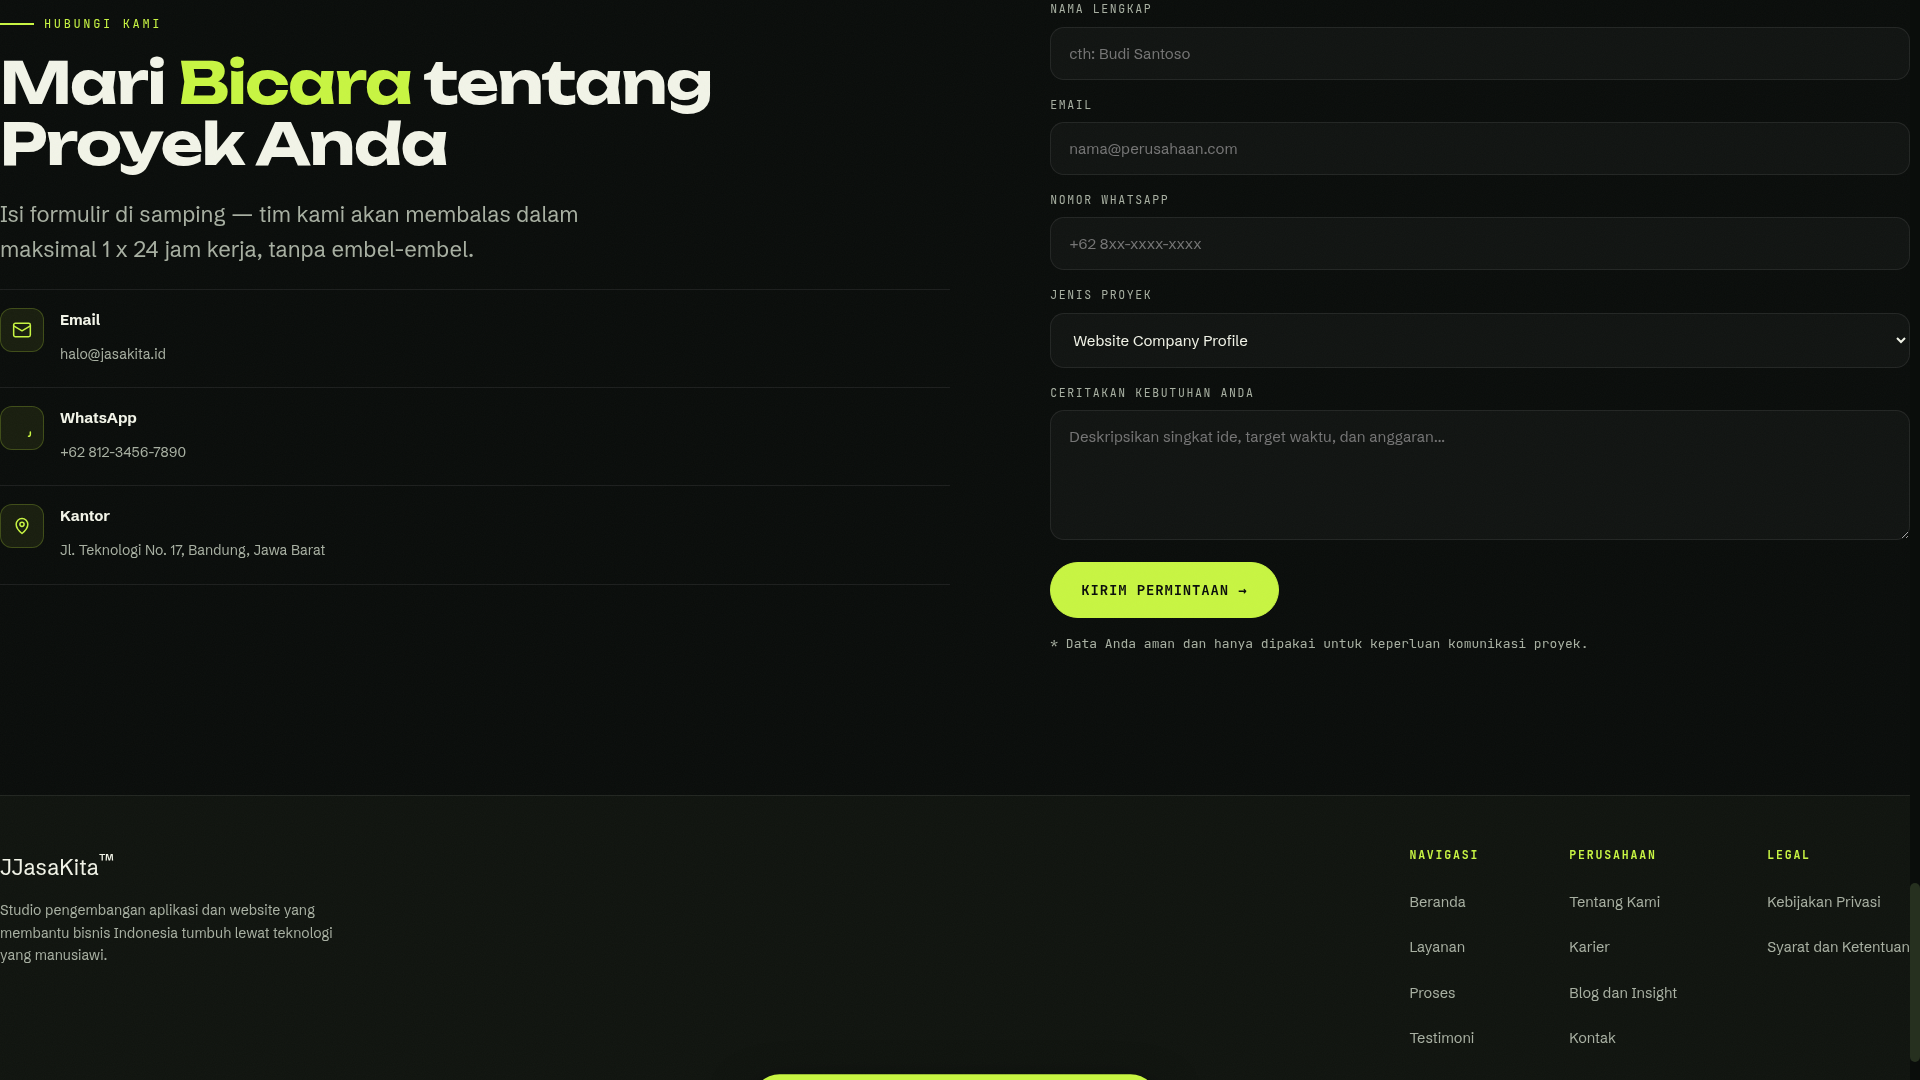
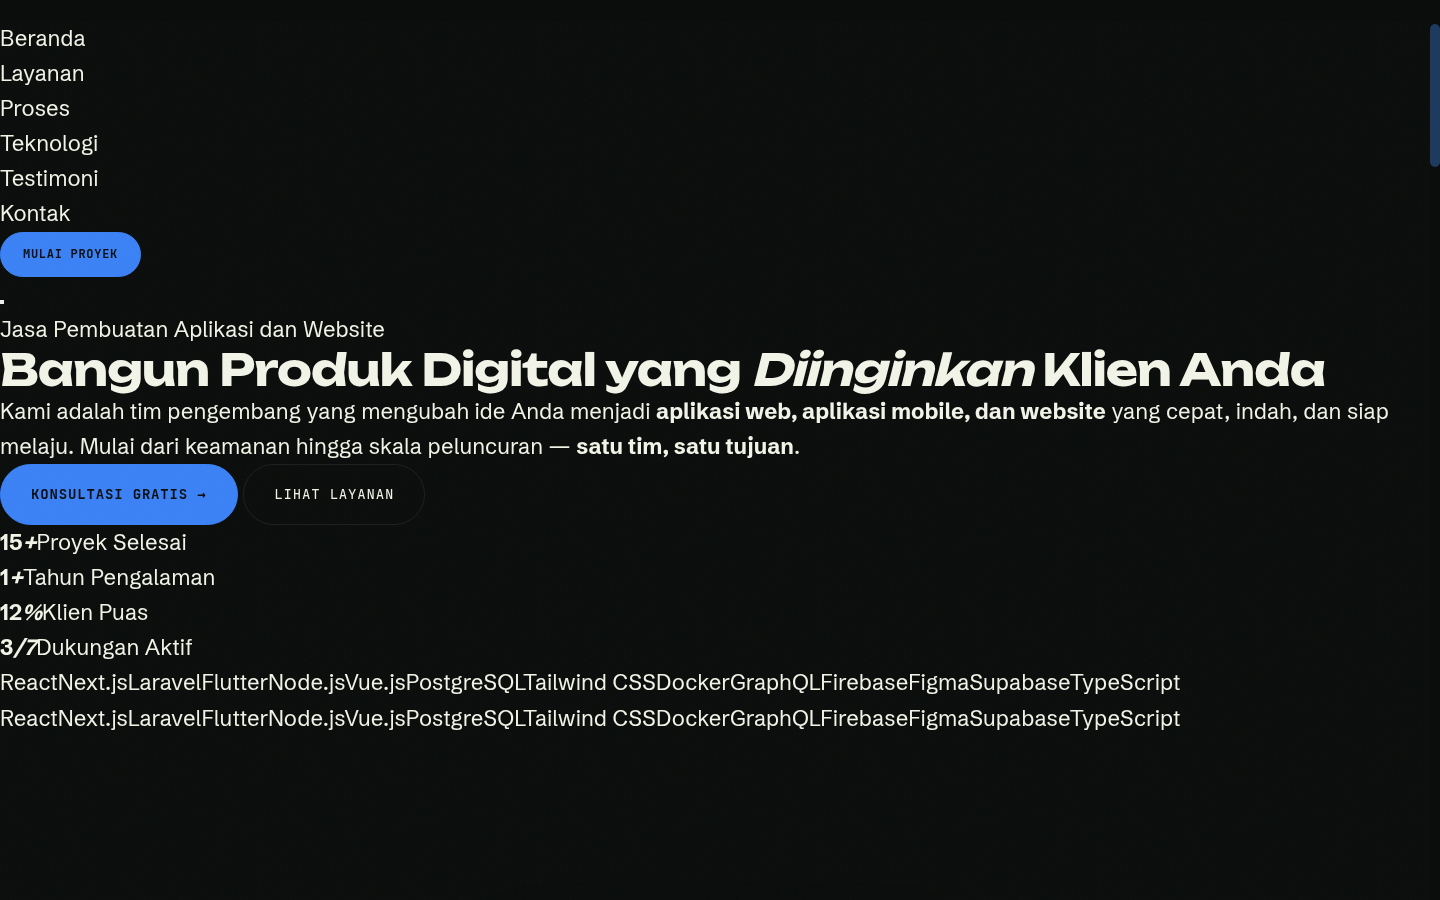
Refine UI layout and switch theme to blue

diff --git a/index.html b/index.html
@@ -16,9 +16,9 @@
     --line: rgba(255, 255, 255, 0.08);
     --ink: #f2f4e8;
     --ink-dim: #a8b0a2;
-    --accent: #c8f542;
-    --accent-deep: #9fd41c;
-    --lime-glow: rgba(200, 245, 66, 0.35);
+    --accent: #3b82f6;
+    --accent-deep: #2563eb;
+    --glow: rgba(59,130,246,0.35);
     --radius: 22px;
     --shell: clamp(16px, 4vw, 22px);
   }
@@ -46,7 +46,7 @@
     pointer-events: none;
     z-index: 0;
     background:
-      radial-gradient(60% 50%% at 50%% 0%%, rgba(200, 245, 66, 0.07), transparent 60%%),
+      radial-gradient(60% 50%% at 50%% 0%%, rgba(59,130,246,0.07), transparent 60%%),
       linear-gradient(rgba(255, 255, 255, 0.025) 1px, transparent 1px),
       linear-gradient(90deg, rgba(255, 255, 255,  0.025) 1px, transparent 1px);
     background-size: 100% 100%%, 56px 56px, 56px 56px;
@@ -68,7 +68,7 @@
 
   ::-webkit-scrollbar { width: 10px; }
   ::-webkit-scrollbar-track { background: var(--bg); }
-  ::-webkit-scrollbar-thumb { background: #26301f; border-radius: 99px; }
+  ::-webkit-scrollbar-thumb { background: #1e3a5f; border-radius: 99px; }
   ::-webkit-scrollbar-thumb:hover { background: var(--accent-deep); }
 
   /* ===== custom cursor ===== */
@@ -82,8 +82,8 @@
       will-change: transform;
     }
     .cursor-dot { width: 8px; height:  8px; background: var(--accent); transition: width .2s, height .2s, background .2s; }
-    .cursor-ring { width:  38px; height:  38px; border: 1.5px solid rgba(200, 245, 66, 0.55); transition: width .25s, height .25s, border-color .25s, background .25s; }
-    .cursor-ring.is-hot { width:  64px; height:  64px; background: rgba(200, 245, 66, 0.12); border-color: rgba(200, 245,  66, 0.9); }
+    .cursor-ring { width:  38px; height:  38px; border: 1.5px solid rgba(59,130,246,0.55); transition: width .25s, height .25s, border-color .25s, background .25s; }
+    .cursor-ring.is-hot { width:  64px; height:  64px; background: rgba(59,130,246,0.12); border-color: rgba(59,130,246,0.9); }
     .cursor-dot.is-hot { width:  0; height:  0; }
   }
   @media (pointer: coarse) { .cursor-dot, .cursor-ring { display: none; } }
@@ -102,7 +102,7 @@
 
   h1, h2, h3 { font-family: "Unbounded", sans-serif; font-weight: 700; line-height: 1.06; letter-spacing: -0.02em; text-wrap: balance; }
 
-  .sec { position: relative; z-index: 1; padding-block: clamp(84px, 12vw,  140px); }
+  .sec { position: relative; z-index:  1; padding-block: clamp(84px,,w 12vw,,w 140px); scroll-margin-top:  88px; }
   .sec-head { margin-bottom: clamp(40px, 6vw,  64px); }
   .sec-title { font-size: clamp(30px, 4.6vw,  58px); max-width:  22ch;; }
   .sec-title em { font-style: normal; color: var(--accent); }
@@ -130,11 +130,11 @@
   .btn:hover::before { transform: translateY(0); }
   .btn--solid { background: var(--accent); color: #0a0d0b; border-color: var(--accent); font-weight: 700; }
   .btn--solid::before { display: none; }
-  .btn--solid:hover { box-shadow: 0 12px 34px var(--lime-glow); }
+  .btn--solid:hover { box-shadow: 0 12px 34px var(--glow); }
 /* services bento */
   .svc { position: relative; overflow: hidden; border-radius: var(--radius); border: 1px solid var(--line); background: var(--surface); padding: 30px; min-height: 240px; display: flex; flex-direction: column; justify-content: space-between; transition: transform .35s, border-color .35s, box-shadow .35s; }
-  .svc:hover { transform: translateY(-6px); border-color: rgba(200,245,66,0.5); box-shadow:  0 20px 50px rgba(0,0,0,0.4); }
-  .svc::after { content:""; position: absolute; inset: auto -30% -40% -30%; height: 80%; background: radial-gradient(circle at 50% 100%, rgba(200,245,66,0.14), transparent 65%); opacity:  0; transition: opacity .4s; pointer-events: none; }
+  .svc:hover { transform: translateY(-6px); border-color: rgba(59,130,246,0.5); box-shadow:  0 20px 50px rgba(0,0,0,0.4); }
+  .svc::after { content:""; position: absolute; inset: auto -30% -40% -30%; height: 80%; background: radial-gradient(circle at 50% 100%, rgba(59,130,246,0.14), transparent 65%); opacity:  0; transition: opacity .4s; pointer-events: none; }
   .svc:hover::after { opacity: 1; }
   .svc--1 { grid-column: span 7; }
   .svc--2 { grid-column: span  5; }
@@ -144,7 +144,7 @@
   .svc--6 { grid-column: span  6; }
   .svc__num { font-family: "JetBrains Mono", monospace; font-size: 12px; color: var(--ink-dim); letter-spacing:  0.16em; }
   .svc:hover .svc__num { color: var(--accent); }
-  .svc__icon { width: 46px; height:  46px; border-radius: 13px; display: grid; place-items: center; background: rgba(200,245,66,0.1); border:  1px solid rgba(200,245,66,0.25); margin-bottom:  22px; font-size: 22px; transition: transform .35s; color: var(--accent); }
+  .svc__icon { width: 46px; height:  46px; border-radius: 13px; display: grid; place-items: center; background: rgba(59,130,246,0.1); border:  1px solid rgba(59,130,246,0.25); margin-bottom:  22px; font-size: 22px; transition: transform .35s; color: var(--accent); }
   .svc:hover .svc__icon { transform: rotate(-8deg) scale(1.08); }
   .svc h3 { font-size: clamp(19px, 2vw, 26px); margin-bottom:  10px; }
   .svc p { color: var(--ink-dim); font-size: 15.5px; max-width: 48ch; }
@@ -153,24 +153,24 @@
   @media(max-width: 920px) { .svc { grid-column: span 12 !important; min-height: auto; } .bento { gap:  14px; } }/* process steps */
   .steps { display: grid; grid-template-columns: repeat(4, 1fr); gap:  16px; }
   .step { position: relative; padding: 28px; border-radius: var(--radius); border:  1px solid var(--line); background: rgba(255,255,255,0.02); transition: background .3s, transform .3s; }
-  .step:hover { background: rgba(200,245,66,0.05); transform: translateY(-4px); }
-  .step__n { font-family: "Unbounded", sans-serif; font-size: 44px; font-weight: 700; color: transparent; -webkit-text-stroke:  1px rgba(200,245,66,0.6); line-height:  1; margin-bottom:  18px; }
+  .step:hover { background: rgba(59,130,246,0.05); transform: translateY(-4px); }
+  .step__n { font-family: "Unbounded", sans-serif; font-size: 44px; font-weight: 700; color: transparent; -webkit-text-stroke:  1px rgba(59,130,246,0.6); line-height:  1; margin-bottom:  18px; }
   .step h3 { font-size: 17px; margin-bottom:  8px; }
   .step p { font-size: 14px; color: var(--ink-dim); }
-  .step::before { content:""; position: absolute; top: 34px; right: 28px; width: 34px; height:  1px; background: linear-gradient(90deg, rgba(200,245,66,0.5), transparent); }
+  .step::before { content:""; position: absolute; top: 34px; right: 28px; width: 34px; height:  1px; background: linear-gradient(90deg, rgba(59,130,246,0.5), transparent); }
   @media(max-width: 960px) { .steps { grid-template-columns: repeat(2, 1fr); } }
   @media(max-width: 560px) { .steps { grid-template-columns: 1fr; } }
 
   /* tech stack */
   .stack-grid { display: grid; grid-template-columns: repeat(4, 1fr); gap:  14px; }
   .stack-item { border:  1px solid var(--line); border-radius: 16px; padding: 20px; display: flex; align-items: center; gap:  13px; background: rgba(255,255,255,0.02); transition: border-color .3s, background .3s, transform .3s; }
-  .stack-item:hover { border-color: rgba(200,245,66,0.45); background: rgba(200,245,66,0.05); transform: translateY(-3px); }
+  .stack-item:hover { border-color: rgba(59,130,246,0.45); background: rgba(59,130,246,0.05); transform: translateY(-3px); }
   .stack-item b { font-family: "JetBrains Mono", monospace; font-size: 12px; color: var(--accent); font-weight: 500; text-transform: uppercase; letter-spacing:  0.1em; }
   .stack-item span { font-size: 15px; font-weight:  600; }
   @media(max-width: 960px) { .stack-grid { grid-template-columns: repeat(2, 1fr); } }/* testimonials */
   .quotes { display: grid; grid-template-columns: repeat(3, 1fr); gap:  16px; }
   .quote { border:  1px solid var(--line); border-radius: var(--radius); padding: 30px; display: flex; flex-direction: column; gap:  22px; background: var(--surface); position: relative; overflow: hidden; }
-  .quote::before { content:""; position: absolute; top: -12px; right: 20px; font-family: "Unbounded", sans-serif; font-size: 140px; line-height: 1; color: rgba(200,245,66,0.1); }
+  .quote::before { content:""; position: absolute; top: -12px; right: 20px; font-family: "Unbounded", sans-serif; font-size: 140px; line-height: 1; color: rgba(59,130,246,0.1); }
   .quote p { font-size: 16.5px; color: var(--ink); position: relative; z-index:  1; }
   .quote__who { display: flex; align-items: center; gap:  14px; margin-top: auto; }
   .quote__ava { width:  46px; height:  46px; border-radius: 50%; display: grid; place-items: center; font-family: "Unbounded", sans-serif; font-size: 15px; font-weight: 700; color: #0a0d0b; background: var(--accent); flex-shrink:  0; }
@@ -179,15 +179,15 @@
   @media(max-width: 960px) { .quotes { grid-template-columns: 1fr; } }
 
   /* CTA banner */
-  .cta { border-radius: 30px; overflow: hidden; position: relative; border:  1px solid rgba(200,245,66,0.3); background: linear-gradient(135deg, #1a2310, #0d130a); padding: clamp(50px, 8vw, 90px) clamp(24px, 5vw,  70px); }
-  .cta::after { content:""; position: absolute; top: -50%; left: -20%; width: 70%; height: 200%; background: radial-gradient(circle, rgba(200,245,66,0.14), transparent 55%); pointer-events: none; }
+  .cta { border-radius: 30px; overflow: hidden; position: relative; border:  1px solid rgba(59,130,246,0.3); background: linear-gradient(135deg, #0f1f3d, #0a0f1e); padding: clamp(50px, 8vw, 90px) clamp(24px, 5vw,  70px); }
+  .cta::after { content:""; position: absolute; top: -50%; left: -20%; width: 70%; height: 200%; background: radial-gradient(circle, rgba(59,130,246,0.14), transparent 55%); pointer-events: none; }
   .cta h2 { font-size: clamp(28px, 4vw,  50px); max-width:  18ch; position: relative; }
   .cta .btn { position: relative; }/* contact */
   .contact-grid { display: grid; grid-template-columns: 1.05fr 0.95fr; gap: clamp(36px, 8vw,  100px); align-items: start; }
   .contact-info p { color: var(--ink-dim); max-width: 48ch; margin-block:  22px; }
   .info-item { display: flex; gap:  16px; padding-block:  18px; border-top:  1px solid var(--line); align-items: flex-start; }
   .info-item:last-child { border-bottom:  1px solid var(--line); }
-  .info-item .ic { width: 44px; height:  44px; border-radius: 12px; background: rgba(200,245,66,0.08); border:  1px solid rgba(200,245,66,0.22); display: grid; place-items: center; flex-shrink: 0; }
+  .info-item .ic { width: 44px; height:  44px; border-radius: 12px; background: rgba(59,130,246,0.08); border:  1px solid rgba(59,130,246,0.22); display: grid; place-items: center; flex-shrink: 0; }
   .info-item .ic svg { width:  20px; height:  20px; stroke: var(--accent); fill:none; stroke-width: 1.8; stroke-linecap: round; stroke-linejoin: round; }
   .info-item b { display: block; font-size: 15px; margin-bottom:  2px; }
   .info-item span { font-size: 14px; color: var(--ink-dim); }
@@ -197,7 +197,7 @@
   .field label { font-family: "JetBrains Mono", monospace; font-size: 11.5px; letter-spacing:  0.14em; text-transform: uppercase; color: var(--ink-dim); }
   .field input, .field select, .field textarea { background: rgba(255,255,255,0.03); border:  1px solid var(--line); border-radius: 14px; padding: 16px 18px; color: var(--ink); font-family: "Schibsted Grotesk", sans-serif; font-size: 15px; outline: none; width: 100%; transition: border-color .25s, box-shadow .25s, background .25s; }
   .field textarea { resize: vertical; min-height:  130px; }
-  .field input:focus, .field select:focus, .field textarea:focus { border-color: rgba(200,245,66,0.6); box-shadow:  0 0 0 3px rgba(200,245,66,0.12); background: rgba(200,245,66,0.04); }
+  .field input:focus, .field select:focus, .field textarea:focus { border-color: rgba(59,130,246,0.6); box-shadow:  0 0 0 3px rgba(59,130,246,0.12); background: rgba(59,130,246,0.04); }
   .form .btn { justify-self: start; margin-top:  6px; }
   .form-note { font-size: 13px; color: var(--ink-dim); font-family: "JetBrains Mono", monospace; }/* toast */
   .toast { position: fixed; bottom:  28px; left:  50%; transform: translate(-50%, 140%); background: var(--accent); color: #0a0d0b; font-family: "JetBrains Mono", monospace; font-size: 14px; padding: 16px 26px; border-radius: 99px; z-index:  3000; transition: transform .45s cubic-bezier(.65, 0, .35, 1); font-weight: 700; box-shadow:  0 18px 44px rgba(0,0,0,0.5); }
@@ -224,6 +224,27 @@
     .hero-actions .btn { width: 100%; justify-content: center; }
     .contact-grid { grid-template-columns: 1fr; }
   }
+
+  /* ===== layout refinements ===== */
+  .bento { grid-template-columns: repeat(12, 1fr); }
+  .svc--1, .svc--4 { grid-column: span  7; }
+  .svc--2, .svc--3, .svc--5, .svc--6 { grid-column: span  5; }
+  .cta-zone { padding-top: clamp(50px,,w 6vw,,w 80px); padding-bottom: clamp(64px,,w 8vw,,w 96px); }
+  @media(max-width: 920px) {
+    .bento { grid-template-columns: repeat(2,,w 1fr); gap:  14px; }
+    .svc,, .svc--1,, .svc--2,, .svc--3,, .svc--4,, .svc--5,, .svc--6 { grid-column: span  1; }
+    .hero-actions { gap:  12px; }
+    .hero-stats { gap:  26px; margin-top:  44px; }
+  }
+  @media(max-width: 560px) {
+    .bento { grid-template-columns: 1fr; }
+    .hero { padding-top: 150px; }
+    .hero-title { font-size: clamp(36px,,w 11vw,,w 52px); }
+    .hero-stats b { font-size: 26px; }
+    .sec { padding-block: clamp(64px,,w 14vw,,w 96px); }
+    .nav-links.open { inset: 72px 0 auto 0; }
+  }
+
 </style>
 </head>
 <body>
@@ -349,7 +370,7 @@
   </section>
 
   <!-- Process -->
-  <section class="sec" id="proses" style="padding-top:0">
+  <section class="sec" id="proses">
     <div class="wrap">
       <div class="sec-head reveal">
         <span class="eyebrow">Cara Kami Bekerja</span>
@@ -364,7 +385,7 @@
     </div>
   </section>
   <!-- Tech stack -->
-  <section class="sec" id="stack" style="padding-top:0">
+  <section class="sec" id="stack">
     <div class="wrap">
       <div class="sec-head reveal">
         <span class="eyebrow">Teknologi Pilihan</span>
@@ -384,7 +405,7 @@
   </section>
 
   <!-- Testimonials -->
-  <section class="sec" id="testimoni" style="padding-top:0">
+  <section class="sec" id="testimoni">
     <div class="wrap">
       <div class="sec-head reveal">
         <span class="eyebrow">Kata Mereka</span>
@@ -408,7 +429,7 @@
   </section>
 
   <!-- CTA banner -->
-  <section class="sec" style="padding-top:0; padding-bottom: clamp(60px, 8vw, 90px);">
+  <section class="sec cta-zone">
     <div class="wrap">
       <div class="cta reveal">
         <span class="eyebrow">Siap Memulai?</span>
@@ -419,7 +440,7 @@
     </div>
   </section>
   <!-- Contact -->
-  <section class="sec" id="kontak" style="padding-top:0">
+  <section class="sec" id="kontak">
     <div class="wrap">
       <div class="contact-grid">
         <div class="contact-info reveal">
